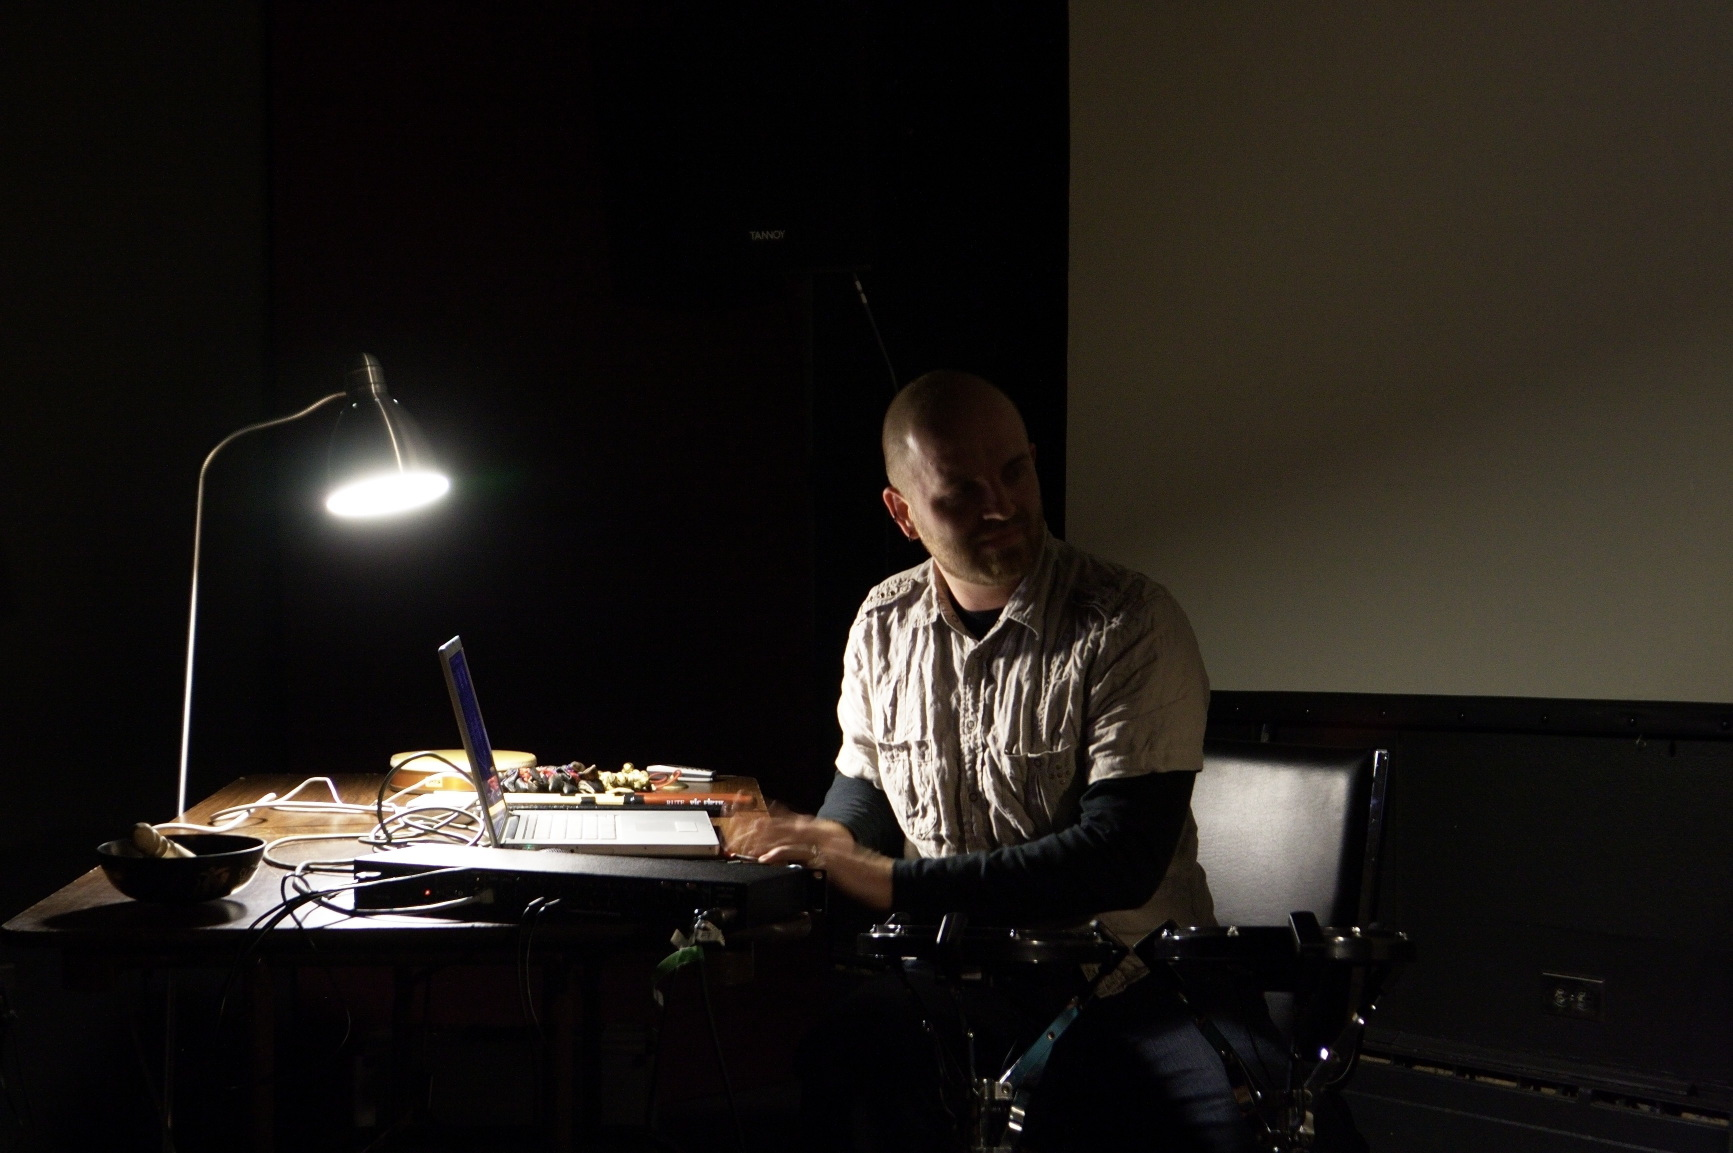
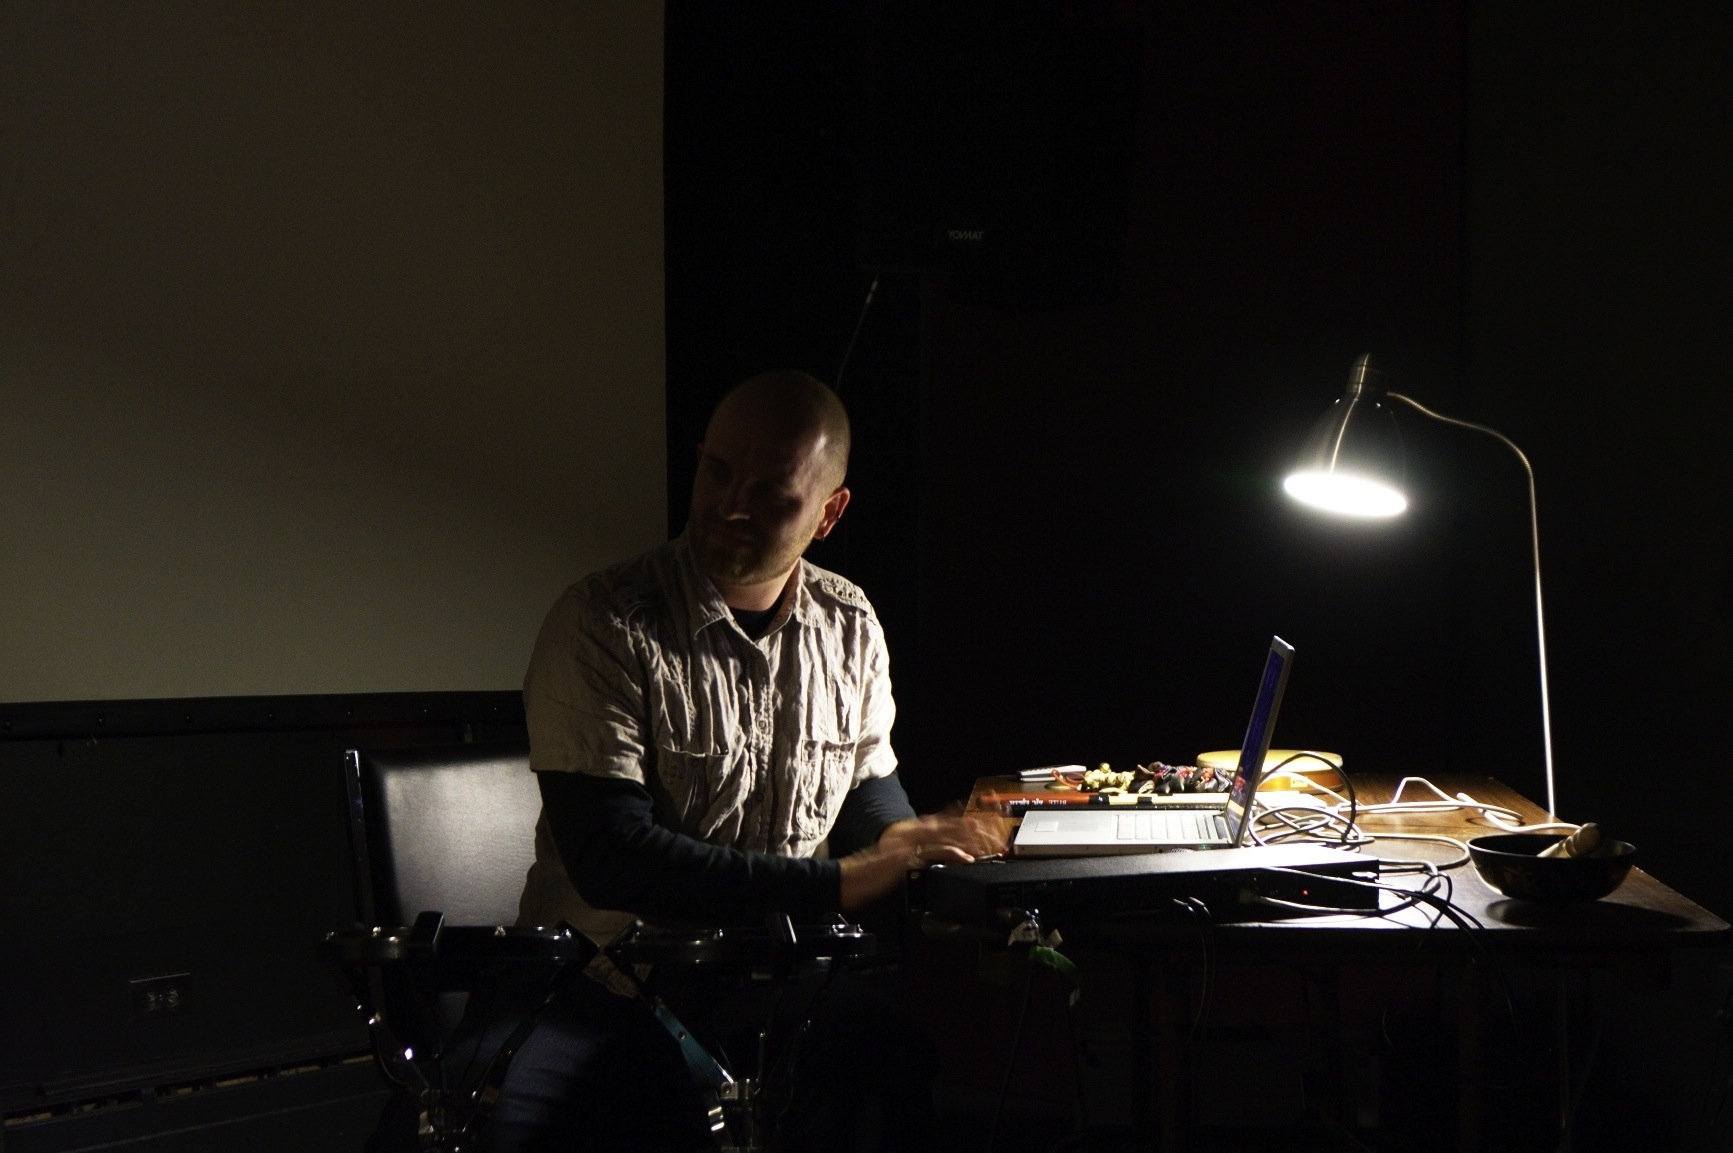
cleaning up repo. flipped picture for redesign. started templating

diff --git a/content/media/css/blog.css b/content/media/css/blog.css
@@ -1,11 +1,4 @@
-<html>
-    <!--  http://bitsamppixels.com/transparent-columns/ -->
-    <head>
 
-        <meta content="text/html; charset=UTF-8" http-equiv="content-type">
-        <meta name="robots" content="index">
-        <title>Adam R. Tindale</title>
-        <style type="text/css">
             html { 
                 background: url(media/images/adamtindale.jpg) no-repeat center center fixed; 
                 -webkit-background-size: cover;
@@ -19,12 +12,10 @@
                 padding-top: 80px;
                 font-size: 80%;
             }
-            <!-- save this for the blog
             ::-webkit-scrollbar-thumb:vertical {background-color: #555; height:200px;}
             ::-webkit-scrollbar-thumb:horizontal {background-color: #555; height:10px !important;
             }
             ::-webkit-scrollbar { height:10px; width:7px; background-color:#fff; }
-            -->
             nav, header, footer, section, article {
                 display: block;
             }
@@ -113,83 +104,4 @@
                 font-size: 9px;
             }
 
-            /* Let's compensate for IE6's inability to interpret top: 0; and bottom: 0; */
-            * html #column-1 .overlay { height: expression(document.getElementById("column-1").offsetHeight); }
-            
-        </style>
-        <meta name="description" content="I like stuff.">
-        <meta name="viewport" content="width=1024">
-        <meta name="keywords" content="Adam Tindale">
-        <meta name="author" content="Adam Tindale">
-        <link rel="shortcut icon" href="{{ media_url('/favicon.ico') }}">
-
-        <script language="javascript"> 
-            function toggle() {
-                var text = document.getElementById("events");
-                if(text.style.display == "block") {
-                    text.style.display = "none";
-                }
-                else {
-                    text.style.display = "block";
-                }
-            } 
-        </script>
-
-
-    </head>
-    <body >
-
-        <section id="menu"> 
-        <nav style="word-spacing:50px;margin-left:50px;"> 
-        <h2>
-            <a href="biocv">&#35;Bio/CV</a> 
-            <a href="events">&#35;Events</a> 
-            <a href="projects">&#35;Projects</a> 
-            <a href="code">&#35;Code</a>
-            <a href="blog">&#35;Blog</a>
-        </h2>
-        </nav> 
-        </section> 
-
-        <section id="social">
-        <a href="http://www.twitter.com/adamtindale" target="_blank"><img src="{{ media_url('images/bird_48_black.png') }}" ></a>
-            <a href="http://www.youtube.com/adamrtindale" target="_blank"><img src="/media/images/youtube_logo_onecolor_againstwhite-vflhSQ1Dt.png" width="48px"></a>
-            <a href="http://www.github.com/drart" target="_blank"><img src="/media/images/octocat_black.png" width="48px"></a>
-            <a href="http://www.soundcloud.com/adamtindale" target="_blank"><img src="/media/images/soundcloud_black.png" width="48px"></a>
-        </section> 
-
-        <footer>Powered by <a href="">Hyde</a></footer>
-            
-        <div id="wrapper"> 
-            <div id="column-1" class="container"> 
-                <div class="overlay"></div> 
-                    <div class="content"> 
-{% markdown %} 
-#Adam Tindale 
-
-Drummer/Researcher  
-Artist/Programmer  
-Wanderer/Tinkerer  
-*********
-Permanent Instructor of Interaction Design   
-Head of Media Arts and Digital Technologies   
-*[Alberta College of Art and Design](http://www.acad.ca)*
-
-<adam.tindale@acad.ca>  
-*****************
-{% endmarkdown %}
-
-                    
-
-                        <h2><a href="#" onclick="toggle()">Upcoming Events</a></h2>
-                        <div id="events" style="display:none;">
-                        {% markdown %}
-                        {% include "events/upcoming.markdown" ignore missing without context %}
-                        {% endmarkdown %}
-                        </div>
-                    </div> 
-                </div> 
-            </div> 
-        </div> 
-    </body>
-</html>
+      

diff --git a/content/projects/index.html b/content/projects/index.html
@@ -1,0 +1,38 @@
+
+
+Projects
+
+
+Past Projects
+
+ALE (ACAD Laptop Ensemble)
+i send data live (Electronic Drums and Laptop Duo with Robin Davies)
+
+Smackon 9000
+Trimpin's Turntables
+
+
+
+##Other Projects (Bands, Groups, etc.)
+The Electron Orchestra Withdrawal - Clinker (Bass, Electronics), Jackson 2Bears (Turntables, Electronics), Les Robot (Guitar), Adam Tindale (Electronic Drums)
+Palimpsest - Graham Freeman (Guitar), Sandra Marshall (Theremin), Adam Tindale (Tabla and Percussion)
+Outlyre - Chris Zaremba (Guitar and Vocals), Adam Tindale (Drums, Electronics and Vocals)
+LUVLEE - Live University of Victoria Laptop and Electroacoustic Ensemble
+LEARK - Live Electroacoustic Research Kitchen
+Appleman Collective
+Andrea Revel
+
+
+
+
+
+<h3>Smackon 9000</h3><br /> 
+<p>This is an early digital musical instrument that was created in a class at McGill University. The class was divided up into groups containing a technologist, a performer and a composer. The group was responsible for designing and implementing a new musical instrument and then creating a piece of music for it and then having it performed in a concert setting.</p><br /> 
+<p>The smackon9000 utilized a wacom tablet and a keyboard in order to put early versions of the instrument into the performer's hands. This allowed the performer to give feedback about the handling of the instrument and not just speculating on the desired features. The keyboard emmulates flute fingerings because the performer was a trained flutist.</p><br /> 
+<object width="425" height="344"><param name="movie" value="http://www.youtube.com/v/Dedx5gVWjY8&#38;hl=en_US&#38;fs=1&#38;"></param><param name="allowFullScreen" value="true"></param><param name="allowscriptaccess" value="always"></param><embed src="http://www.youtube.com/v/Dedx5gVWjY8&#38;hl=en_US&#38;fs=1&#38;" type="application/x-shockwave-flash" allowscriptaccess="always" allowfullscreen="true" width="425" height="344"></embed></object><br /> 
+<hr><br /> 
+<h3>Trimpin's Turntables</h3><br /> 
+<p>Trimpin, the famous sound sculptor, brought his musical turntable robots to the University of Victoria and left them for two months to allow students to deeply explore them. During this time I currated the exhibit locally and provided initial training to all particpants, as well as giving demos for interested researchers.<p><br /> 
+<p>My short performance utilizes a game controller and Max/MSP to send MIDI messages to the robots. Various Wagner records were used as source material.</p><br /> 
+<object width="425" height="344"><param name="movie" value="http://www.youtube.com/v/08l-D6Of1Hc&#38;hl=en&#38;fs=1"></param><param name="allowFullScreen" value="true"></param><param name="allowscriptaccess" value="always"></param><embed src="http://www.youtube.com/v/08l-D6Of1Hc&#38;hl=en&#38;fs=1" type="application/x-shockwave-flash" allowscriptaccess="always" allowfullscreen="true" width="425" height="344"></embed></object><br /> 
+

diff --git a/deprecated/research.html b/deprecated/research.html
@@ -1,0 +1,8 @@
+<html>
+
+<head>
+<meta HTTP-EQUIV="REFRESH" content="0; url=site/">
+</head>
+<body>
+
+</html>
